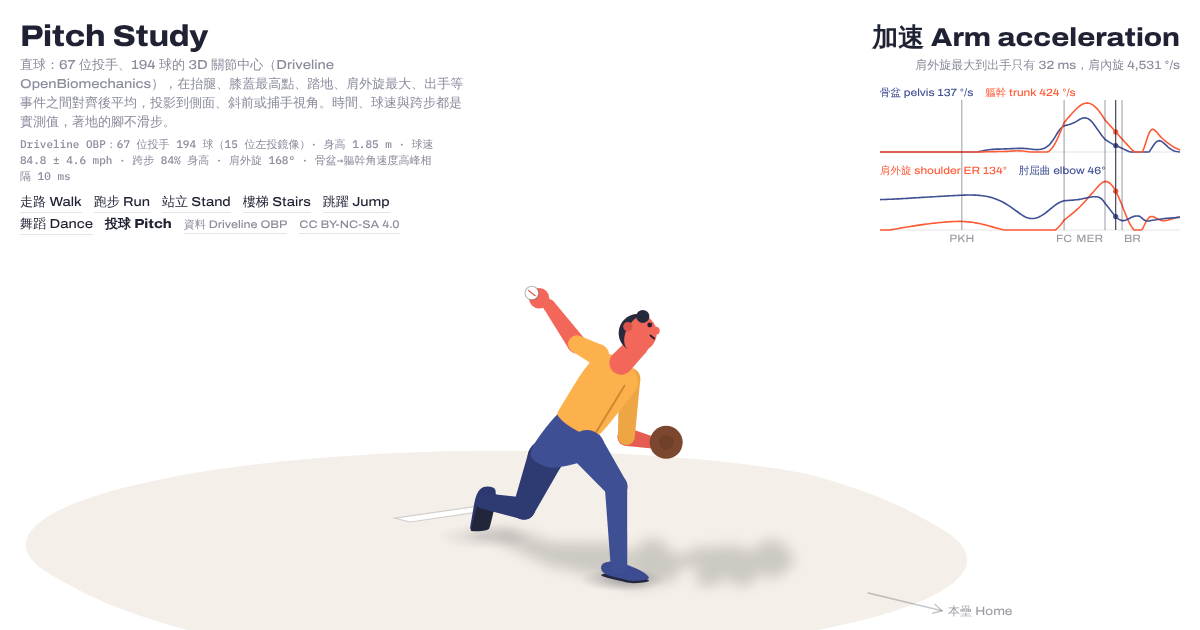
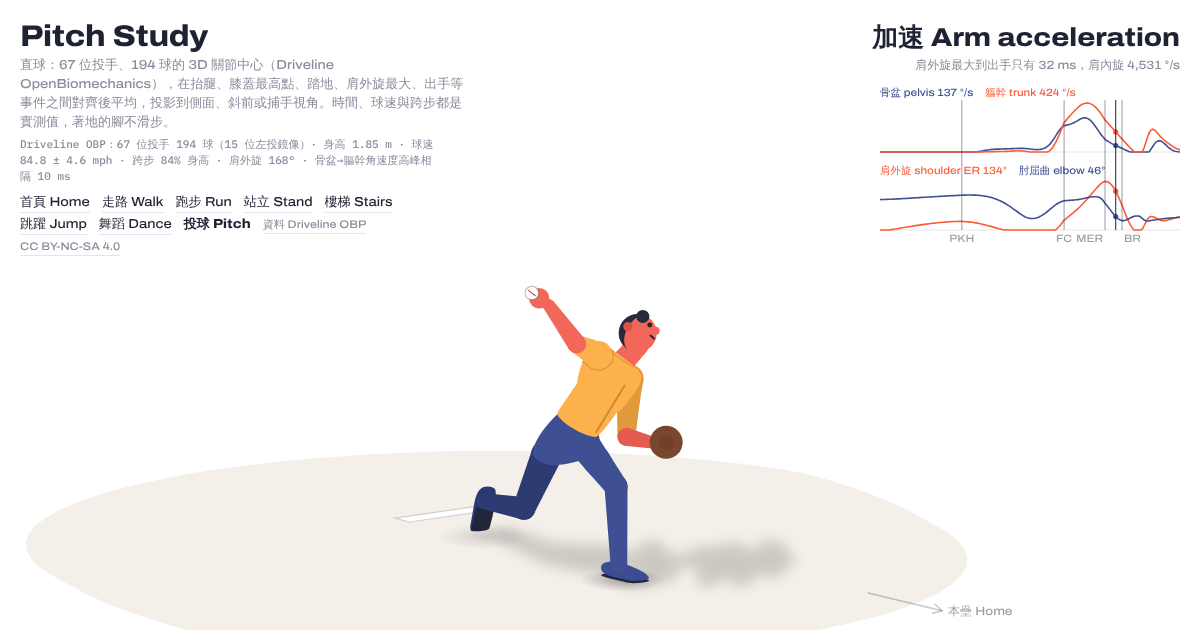
Pitch: redraw the 3D figure so the segments join like a body
- Shirt: abdomen hull joined to a thorax hull that includes a neck-base ring and
  both shoulder joints, so the ribcage tapers to the waist and the trapezius
  slopes from the neck to the shoulders; a neckline seam on the front half
- Upper arms: deltoid cap (wide at the shoulder joint, narrowing to the sleeve
  hem); a near upper arm over the trunk gets a thin shaded edge clipped to the
  trunk, so it stays readable against the same-colour shirt
- Pants: one hull around the waist, hip ring and thigh tops; legs taper
  continuously from hip to knee to ankle and start inside it
- Depth: each limb piece is placed behind or in front of the trunk by which
  side of the pelvis-neck axis it is on, as seen from the camera; behind pieces
  are drawn before the trunk, a near thigh's top goes under the shirt hem, the
  rest (and the head) are depth-sorted after the shirt; the neck goes under the
  collar
- Shading as on the 2D pages: the farther leg and pieces behind the trunk take
  the darker shade, one shade per leg
- Motion data unchanged; check_pitch.py passes; GIF and social image re-rendered

Claude-Session: https://claude.ai/code/session_01B8s2ztL83pHwfAhkYomGJt

diff --git a/pitch/index.html b/pitch/index.html
@@ -230,6 +230,18 @@ function axes(lat0, up0){ const up=norm3(up0), lat=norm3(sub3(lat0, [up[0]*dot3(
 const HEAD={r:0.058, drop:-0.012, tuft:0.02};
 const tuftAt=Q=>add3(add3(Q.head,Q.head_up,HEAD.drop),norm3(add3(Q.head_up,Q.head_front,0.35)),HEAD.r*0.95);
 // Widths in body heights, a little fuller than real limbs to match the walk / run character.
+// Joins: the shirt is one hull around the waist, the ribcage, a neck-base ring and both shoulder caps (so the trapezius
+// slopes from the neck to the shoulder and the ribcage tapers to the waist); the pants are one hull around the waist, the
+// hip joints and the top of each thigh. Limbs start inside those hulls. Each limb piece is classed as in front of or
+// behind the trunk by where it sits relative to the trunk axis, as seen from the camera; behind pieces are drawn first, a
+// near thigh's top goes under the shirt hem, everything else in front is depth-sorted after the shirt.
+const FIG={ shoulderR:0.043, neckR:0.042, thighW:[0.1,0.07], shankW:[0.07,0.05],
+  delt:[0.086,0.072,0.055], foreW:[0.056,0.036], handR:0.03, TH:0.18 };
+function smoothSub(ctx, pts){ // smooth() without beginPath: adds a closed subpath
+  const n=pts.length, m=i=>{const a=pts[i%n],b=pts[(i+1)%n];return[(a[0]+b[0])/2,(a[1]+b[1])/2];};
+  const s=m(n-1); ctx.moveTo(s[0],s[1]); for(let i=0;i<n;i++){ const p=pts[i], q=m(i); ctx.quadraticCurveTo(p[0],p[1],q[0],q[1]); } ctx.closePath(); }
+function sphere(c,r){ const o=[]; for(let i=0;i<10;i++){ const a=TAU*i/10, ca=Math.cos(a)*r, sa=Math.sin(a)*r;
+  o.push([c[0]+ca,c[1]+sa,c[2]], [c[0]+ca,c[1],c[2]+sa], [c[0],c[1]+ca,c[2]+sa]); } return o; }
 function drawFigure(ctx, Q, C, pj, ball){
   const J={}; for(const k in Q) if(Array.isArray(Q[k]) && Q[k].length===3) J[k]=pj(Q[k]);
   const toCam=[-CF[0],-CF[1],-CF[2]];
@@ -239,10 +251,17 @@ function drawFigure(ctx, Q, C, pj, ball){
   // belt line at 40 % of pelvis → lower thorax (0.57 H standing): baseball pants are belted just below the iliac crest
   const waistC=lerp3(Q.pelvis,Q.thorax_dist,0.4), chestC=lerp3(Q.thorax_dist,Q.thorax_prox,0.45);
   const shW=len3(sub3(Q.shoulder,Q.glove_shoulder))/2;
-  const torsoDepth=proj(waistC)[2], farT=(d,o=0)=>(d-torsoDepth-o)/0.06+0.5;
-  const parts=[], TH0=0.2;   // thighs are drawn from 20 % down the femur; the pants hull covers the part above
+  // in front of the trunk: how far a point sits toward the camera from the nearest point of the pelvis → neck axis
+  const ax0=Q.pelvis, ax=sub3(Q.thorax_prox,Q.pelvis), axL=dot3(ax,ax);
+  const fwd=p=>{ const u=Math.max(0,Math.min(1,dot3(sub3(p,ax0),ax)/axL)); return dot3(sub3(p,add3(ax0,ax,u)),toCam); };
+  const shade=(near,far,s)=>mixC(near,far,-s/0.04);   // near colour in front of the axis, full shade 4 cm behind it
+  const back=[], front=[], under=[];
+  const put=(s,d,f)=>(s>=0?front:back).push({d,f});
+  const depth=(...ps)=>ps.reduce((a,p)=>a+pj(p)[2],0)/ps.length;
   // legs: thigh, shank, shoe (heel and ball soles from the markers, toe box bends to stay above the mound)
+  const legD={}; for(const sd of ["rear","lead"]) legD[sd]=depth(Q[sd+"_knee"],lerp3(Q[sd+"_knee"],Q[sd+"_ankle"],0.5));
   for(const sd of ["rear","lead"]){
+    const other=sd==="rear"?"lead":"rear", farLeg=(legD[sd]-legD[other])/0.05;   // > 0: this leg is the farther one
     const hip=Q[sd+"_hip"], kn=Q[sd+"_knee"], an=Q[sd+"_ankle"], hs=Q[sd+"_heel"], bs=Q[sd+"_ball"];
     const e=norm3(sub3(bs,hs)), lat=norm3(cross3(e,[0,0,1])), up=cross3(lat,e);
     let tip=add3(bs,e,0.045); const fz=floorZ(tip[0])+0.001; if(tip[2]<fz) tip=[tip[0],tip[1],fz];
@@ -250,50 +269,73 @@ function drawFigure(ctx, Q, C, pj, ball){
     for(const [p,h] of [[add3(hs,e,-0.012),0.042],[bs,0.03],[tip,0.016]]) for(const s of [-1,1]){
       const b=add3(p,lat,0.028*s); soleP.push(pj(b)); band.push(pj(b),pj(add3(b,up,ST))); shoe.push(pj(add3(b,up,ST)), pj(add3(b,up,h))); }
     const soleUp=-dot3(up,toCam)>0.05;   // the underside of the shoe faces the camera
-    const dep=(J[sd+"_hip"][2]+J[sd+"_knee"][2]+J[sd+"_ankle"][2])/3, t=farT(dep);
-    parts.push({d:dep, f:()=>{
+    const sT=fwd(lerp3(hip,kn,0.5)), isBack=sT<0||farLeg>0.5,
+      tL=Math.max(-sT/0.04,(farLeg-0.5)*2),   // one shade for the whole leg: 0 in front, rising behind the trunk or the other leg
+      [w0,w1]=FIG.thighW, wAt=u=>w0+(w1-w0)*u;
+    const lower=()=>{ const col=mixC(C.pant,C.pantD,tL);
       if(!soleUp){ smooth(ctx,hull(band)); ctx.fillStyle=C.sole; ctx.fill(); }
-      smooth(ctx,hull(shoe)); ctx.fillStyle=mixC(C.shoe,C.shoeD,t); ctx.fill();
+      smooth(ctx,hull(shoe)); ctx.fillStyle=mixC(C.shoe,C.shoeD,tL); ctx.fill();
       if(soleUp){ smooth(ctx,hull([...soleP,...band])); ctx.fillStyle=C.sole; ctx.fill(); }
-      limb(ctx,J[sd+"_knee"],pj(an),0.068,0.05,mixC(C.pant,C.pantD,t));
-      limb(ctx,pj(lerp3(hip,kn,TH0)),J[sd+"_knee"],0.11,0.07,mixC(C.pant,C.pantD,t)); }});   // starts below the joint, inside the pants: no bump above the belt
+      limb(ctx,J[sd+"_knee"],pj(an),FIG.shankW[0],FIG.shankW[1],col); };
+    if(isBack)   // behind the trunk, or the farther leg: the whole leg before the pants, which cover the top of the thigh
+      back.push({d:depth(hip,kn,an), f:()=>{ lower(); limb(ctx,pj(lerp3(hip,kn,0.15)),J[sd+"_knee"],wAt(0.15),w1,mixC(C.pant,C.pantD,tL)); }});
+    else {     // in front: the top of the thigh under the shirt hem, the rest sorted with the arms
+      const col=mixC(C.pant,C.pantD,tL);
+      under.push({d:depth(hip,kn), f:()=>limb(ctx,pj(lerp3(hip,kn,0.15)),pj(lerp3(hip,kn,0.55)),wAt(0.15),wAt(0.55),col)});
+      front.push({d:depth(kn,an,lerp3(hip,kn,0.7)), f:()=>{ lower(); limb(ctx,pj(lerp3(hip,kn,0.45)),J[sd+"_knee"],wAt(0.45),w1,col); }});
+    }
   }
-  // trunk: pants over the pelvis ring, shirt over waist / chest / shoulder rings (the twist between them is the
-  // measured hip–shoulder separation), a placket line down the chest when it faces the camera
-  { const thighTops=["rear","lead"].flatMap(sd=>{ const h=Q[sd+"_hip"], k=Q[sd+"_knee"], f=axes(pf.lat,sub3(h,k));   // pants reach down over the top of each thigh
-      return ring(lerp3(h,k,TH0),f.lat,f.ap,0.055,0.055,8); });
-    const hipR=ring(add3(Q.pelvis,pf.up,-0.02),pf.lat,pf.ap,0.1,0.07), waR=ring(waistC,mf.lat,mf.ap,0.088,0.064),
-      chR=ring(chestC,tf.lat,tf.ap,0.1,0.072), shR=ring(add3(Q.thorax_prox,tf.up,-0.03),tf.lat,tf.ap,shW+0.022,0.055),
-      ykR=ring(add3(Q.thorax_prox,tf.up,0.004),tf.lat,tf.ap,shW*0.55,0.042);
-    const front=dot3(tf.ap,toCam);
-    parts.push({d:torsoDepth, f:()=>{
-      smooth(ctx,hull([...hipR,...waR,...thighTops].map(pj))); ctx.fillStyle=C.pant; ctx.fill();
-      smooth(ctx,hull([...ring(add3(waistC,mf.lat,0),mf.lat,mf.ap,0.092,0.067),...chR,...shR,...ykR].map(pj))); ctx.fillStyle=C.shirt; ctx.fill();
-      if(front>0.1){ const a=pj(add3(add3(Q.thorax_prox,tf.up,-0.05),tf.ap,0.06)), b=pj(add3(lerp3(waistC,chestC,0.12),mf.ap,0.068));
-        ctx.globalAlpha=Math.min(1,(front-0.1)*3); seg(ctx,[a,b],0.006*a[3],C.shirtDD,"round"); ctx.globalAlpha=1; }
-    }});
-  }
-  // arms: upper arm, forearm, hand; the glove on the glove hand, the ball in the throwing hand until release
+  // trunk hulls: pants (waist, hip ring, thigh tops); shirt = abdomen hull (waist → lower ribs) joined to a
+  // thorax hull (lower ribs, chest, upper chest, neck base, shoulder caps), so the ribcage is wider than the waist and the
+  // trapezius slopes from the neck to the shoulders; the twist between the pelvis and thorax rings is the measured
+  // hip–shoulder separation
+  const thighTops=["rear","lead"].flatMap(sd=>{ const h=Q[sd+"_hip"], k=Q[sd+"_knee"], f=axes(pf.lat,sub3(h,k));
+    return ring(lerp3(h,k,FIG.TH),f.lat,f.ap,0.048,0.048,8); });
+  const pants=hull([...ring(waistC,mf.lat,mf.ap,0.088,0.064), ...ring(add3(Q.pelvis,pf.up,-0.02),pf.lat,pf.ap,0.105,0.072), ...thighTops].map(pj));
+  const neckBase=add3(Q.thorax_prox,tf.up,0.012), ribs=Q.thorax_dist;
+  const abdomen=hull([...ring(waistC,mf.lat,mf.ap,0.092,0.067), ...ring(lerp3(Q.thorax_dist,chestC,0.5),tf.lat,tf.ap,0.092,0.068)].map(pj));
+  const thorax=hull([...ring(ribs,tf.lat,tf.ap,0.096,0.07), ...ring(chestC,tf.lat,tf.ap,0.104,0.076),
+    ...ring(lerp3(chestC,Q.thorax_prox,0.6),tf.lat,tf.ap,Math.max(0.1,shW*0.92),0.068),
+    ...ring(neckBase,tf.lat,tf.ap,FIG.neckR,FIG.neckR*0.9,10), ...sphere(Q.shoulder,FIG.shoulderR), ...sphere(Q.glove_shoulder,FIG.shoulderR)].map(pj));
+  const shirtPath=()=>{ ctx.beginPath(); for(const h of [abdomen,thorax]) smoothSub(ctx,h); };
+  // a near upper arm is the shirt's colour: where it lies over the trunk it gets a thin shaded edge (clipped to the trunk)
+  const edged=(draw)=>{ if(C!==PAL) return; ctx.save(); shirtPath(); ctx.clip(); draw(); ctx.restore(); };
+  // arms: upper arm with a deltoid cap (wide at the shoulder, narrowing to the sleeve hem at the elbow), forearm, hand;
+  // the glove on the glove hand, the ball in the throwing hand until release
   for(const sd of ["","glove_"]){
+    const S3=Q[sd+"shoulder"], E3=Q[sd+"elbow"], W3=Q[sd+"wrist"], H3=Q[sd+"hand"];
     const sh=J[sd+"shoulder"], el=J[sd+"elbow"], wr=J[sd+"wrist"], hd=J[sd+"hand"];
-    const dep=(sh[2]+el[2]+wr[2])/3, t=farT(dep,0.02);
+    const sU=fwd(lerp3(S3,E3,0.6)), sF=fwd(lerp3(E3,W3,0.5));
     const held=!sd && ball && !ball.free ? pj(ball.pos) : null;   // drawn over the fingers in every view, outlined so it reads as held
     const drawBallHeld=()=>{ const b=held; disc(ctx,b,0.02*b[3],C.ball); if(C===PAL){ ctx.lineWidth=0.0035*b[3]; ctx.strokeStyle="rgba(31,34,51,.3)"; ctx.stroke(); }
       seg(ctx,[[b[0]-0.01*b[3],b[1]+0.008*b[3]],[b[0]+0.01*b[3],b[1]-0.008*b[3]]],0.003*b[3],C.seam,"round"); };
-    parts.push({d:dep, f:()=>{
-      const sk=mixC(C.skin,C.skinD,t);
-      limb(ctx,el,wr,0.056,0.036,sk);
-      disc(ctx,hd,0.03*hd[3],sk);
-      limb(ctx,sh,el,0.066,0.052,mixC(C.shirt,C.shirtD,t));                                   // short sleeve to the elbow
+    const dm=pj(lerp3(S3,E3,0.35));
+    put(sU, depth(S3,E3), ()=>{ const col=shade(C.shirt,C.shirtD,sU), k=0.009;
+      if(sU>=0) edged(()=>{ limb(ctx,sh,dm,FIG.delt[0]+k,FIG.delt[1]+k,C.shirtD); limb(ctx,dm,el,FIG.delt[1]+k,FIG.delt[2]+k,C.shirtD); });
+      limb(ctx,sh,dm,FIG.delt[0],FIG.delt[1],col); limb(ctx,dm,el,FIG.delt[1],FIG.delt[2],col); });
+    put(sF, depth(E3,W3), ()=>{ const sk=shade(C.skin,C.skinD,sF);
+      limb(ctx,el,wr,FIG.foreW[0],FIG.foreW[1],sk); disc(ctx,hd,FIG.handR*hd[3],sk);
       if(held) drawBallHeld();
-      if(sd){ const gp=pj(add3(Q.glove_hand, norm3(sub3(Q.glove_hand,Q.glove_wrist)), 0.02));
-        disc(ctx,gp,0.05*gp[3],mixC(C.glove,C.gloveD,t)); disc(ctx,gp,0.022*gp[3],C.gloveD); }
-    }});
+      if(sd){ const gp=pj(add3(H3, norm3(sub3(H3,W3)), 0.02));
+        disc(ctx,gp,0.05*gp[3],shade(C.glove,C.gloveD,sF)); disc(ctx,gp,0.022*gp[3],C.gloveD); } });
   }
-  // neck and head
+  // neck under the shirt's collar ring, head sorted with the front pieces
   { const hu=Q.head_up, hfr=Q.head_front, hc=add3(Q.head,hu,HEAD.drop), hp=pj(hc);
-    parts.push({d:hp[2], f:()=>{ limb(ctx,J.thorax_prox,pj(add3(hc,hu,-0.04)),0.072,0.066,C.skin); drawHead(ctx,hc,hfr,hu,HEAD.r,pj,C); }}); }
-  parts.sort((a,b)=>b.d-a.d); for(const p of parts) p.f();
+    under.push({d:0, f:()=>limb(ctx,pj(add3(Q.thorax_prox,tf.up,-0.01)),pj(add3(hc,hu,-0.04)),0.072,0.066,C.skin)});   // the collar covers its base
+    front.push({d:hp[2], f:()=>drawHead(ctx,hc,hfr,hu,HEAD.r,pj,C)}); }
+  const frontness=dot3(tf.ap,toCam);
+  back.sort((a,b)=>b.d-a.d); front.sort((a,b)=>b.d-a.d);
+  for(const p of back) p.f();
+  smooth(ctx,pants); ctx.fillStyle=C.pant; ctx.fill();
+  for(const p of under) p.f();
+  shirtPath(); ctx.fillStyle=C.shirt; ctx.fill("nonzero");
+  if(frontness>0.1){ const a=pj(add3(add3(Q.thorax_prox,tf.up,-0.05),tf.ap,0.06)), b=pj(add3(lerp3(waistC,chestC,0.12),mf.ap,0.068));
+    ctx.globalAlpha=Math.min(1,(frontness-0.1)*3); seg(ctx,[a,b],0.006*a[3],C.shirtDD,"round"); ctx.globalAlpha=1; }
+  if(C===PAL){ const cr=[], a0=Math.atan2(dot3(toCam,tf.ap),dot3(toCam,tf.lat));   // the half of the neckline facing the camera
+    for(let i=0;i<=12;i++){ const a=a0-1.75+3.5*i/12, dd=add3(add3([0,0,0],tf.lat,Math.cos(a)),tf.ap,Math.sin(a));
+      cr.push(pj(add3(neckBase,[dd[0]*FIG.neckR,dd[1]*FIG.neckR,dd[2]*FIG.neckR]))); }
+    seg(ctx,cr,0.004*cr[0][3],C.shirtD,"round"); }
+  for(const p of front) p.f();
 }
 // head: skin sphere, hair over the back–top hemisphere, eyes / nose / mouth / ear placed on the sphere and drawn when
 // they face the camera. A projected hemisphere is a half-disc plus or minus half an ellipse.

diff --git a/pitch/README.md b/pitch/README.md
@@ -55,7 +55,7 @@ The kinematic sequence runs proximal to distal: pelvis, then trunk, then the arm
 
 ### How the pitch differs from the walk and run
 
-- **3D, projected.** Pelvis and trunk each turn more than 100° toward home, and the shoulder lays back to 168°, mostly behind the body. A side-view joint-angle rig cannot show either. The page projects the averaged 3D joint centres through a perspective camera instead. Three views are available: 側面 side (from the third-base side), 斜前 3/4 front and 捕手 catcher. The trunk is drawn as rings around the pelvis and thorax axes, so hip–shoulder separation shows as a twist. Body parts are depth-sorted. The cast shadow is the same figure dropped onto the mound along a light direction.
+- **3D, projected.** Pelvis and trunk each turn more than 100° toward home, and the shoulder lays back to 168°, mostly behind the body. A side-view joint-angle rig cannot show either. The page projects the averaged 3D joint centres through a perspective camera instead. Three views are available: 側面 side (from the third-base side), 斜前 3/4 front and 捕手 catcher. The trunk is drawn as rings around the pelvis and thorax axes, so hip–shoulder separation shows as a twist. The shirt is one shape around the waist, ribcage, neck base and both shoulder joints, so the trapezius slopes from the neck to the shoulders. The pants are one shape around the waist, hips and the tops of the thighs. Arms and legs start inside these shapes: each upper arm has a deltoid cap, and each leg tapers from the hip to the ankle. Each limb piece is drawn behind or in front of the trunk depending on which side of the trunk axis it is on, as seen from the camera. The farther leg and any piece behind the trunk take the darker shade, as on the 2D pages. The cast shadow is the same figure dropped onto the mound along a light direction.
 - **Averaging without shrinking.** Averaging joint positions directly makes a forearm shorter wherever pitchers' arms point different ways, as at layback. Chains are therefore rebuilt from averaged unit directions times averaged lengths. Feet and pelvis keep averaged positions, because those are what must stay planted.
 - **Planted feet stay planted.** The pivot foot's ball of the foot is held still from leg-lift onset until the foot starts to drag, 196 ms before release. Before then the averaged foot creeps by at most 2 cm; afterwards the toe drags toward home, as in the data. The lead heel is held from foot plant to the end, faded in over the 21 ms from foot contact (≤ 1.7 cm correction). [`analysis/check_pitch.py`](../analysis/check_pitch.py) measures 0.000 mm movement for both held points and soles at most 0.2 mm below the mound. After release the lead foot turns about the heel: its ball moves 10 mm by release and 38 mm by the end.
 - **Set position and reset are not data.** OBP recordings start at most a few hundred ms before the leg lift, so the set position is the pose at leg-lift onset, held for 1.2 s with one slow breath (the upper body rises at most 4 mm; feet and pelvis stay still, and the pose is the data pose at both ends of the hold). The data end 200 ms after release. The finish is held, then fades back to the set position. The hair spring restarts at rest when the faded-out finish is swapped for the set pose, so it does not swing across the loop seam.

diff --git a/README.md b/README.md
@@ -413,7 +413,7 @@ The kinematic sequence runs proximal to distal: pelvis, then trunk, then the arm
 
 ### How the pitch differs from the walk and run
 
-- **3D, projected.** Pelvis and trunk each turn more than 100° toward home, and the shoulder lays back to 168°, mostly behind the body. A side-view joint-angle rig cannot show either. The page projects the averaged 3D joint centres through a perspective camera instead. Three views are available: 側面 side (from the third-base side), 斜前 3/4 front and 捕手 catcher. The trunk is drawn as rings around the pelvis and thorax axes, so hip–shoulder separation shows as a twist. Body parts are depth-sorted. The cast shadow is the same figure dropped onto the mound along a light direction.
+- **3D, projected.** Pelvis and trunk each turn more than 100° toward home, and the shoulder lays back to 168°, mostly behind the body. A side-view joint-angle rig cannot show either. The page projects the averaged 3D joint centres through a perspective camera instead. Three views are available: 側面 side (from the third-base side), 斜前 3/4 front and 捕手 catcher. The trunk is drawn as rings around the pelvis and thorax axes, so hip–shoulder separation shows as a twist. The shirt is one shape around the waist, ribcage, neck base and both shoulder joints, so the trapezius slopes from the neck to the shoulders. The pants are one shape around the waist, hips and the tops of the thighs. Arms and legs start inside these shapes: each upper arm has a deltoid cap, and each leg tapers from the hip to the ankle. Each limb piece is drawn behind or in front of the trunk depending on which side of the trunk axis it is on, as seen from the camera. The farther leg and any piece behind the trunk take the darker shade, as on the 2D pages. The cast shadow is the same figure dropped onto the mound along a light direction.
 - **Averaging without shrinking.** Averaging joint positions directly makes a forearm shorter wherever pitchers' arms point different ways, as at layback. Chains are therefore rebuilt from averaged unit directions times averaged lengths. Feet and pelvis keep averaged positions, because those are what must stay planted.
 - **Planted feet stay planted.** The pivot foot's ball of the foot is held still from leg-lift onset until the foot starts to drag, 196 ms before release. Before then the averaged foot creeps by at most 2 cm; afterwards the toe drags toward home, as in the data. The lead heel is held from foot plant to the end, faded in over the 21 ms from foot contact (≤ 1.7 cm correction). [`analysis/check_pitch.py`](analysis/check_pitch.py) measures 0.000 mm movement for both held points and soles at most 0.2 mm below the mound. After release the lead foot turns about the heel: its ball moves 10 mm by release and 38 mm by the end.
 - **Set position and reset are not data.** OBP recordings start at most a few hundred ms before the leg lift, so the set position is the pose at leg-lift onset, held for 1.2 s with one slow breath (the upper body rises at most 4 mm; feet and pelvis stay still, and the pose is the data pose at both ends of the hold). The data end 200 ms after release. The finish is held, then fades back to the set position. The hair spring restarts at rest when the faded-out finish is swapped for the set pose, so it does not swing across the loop seam.
